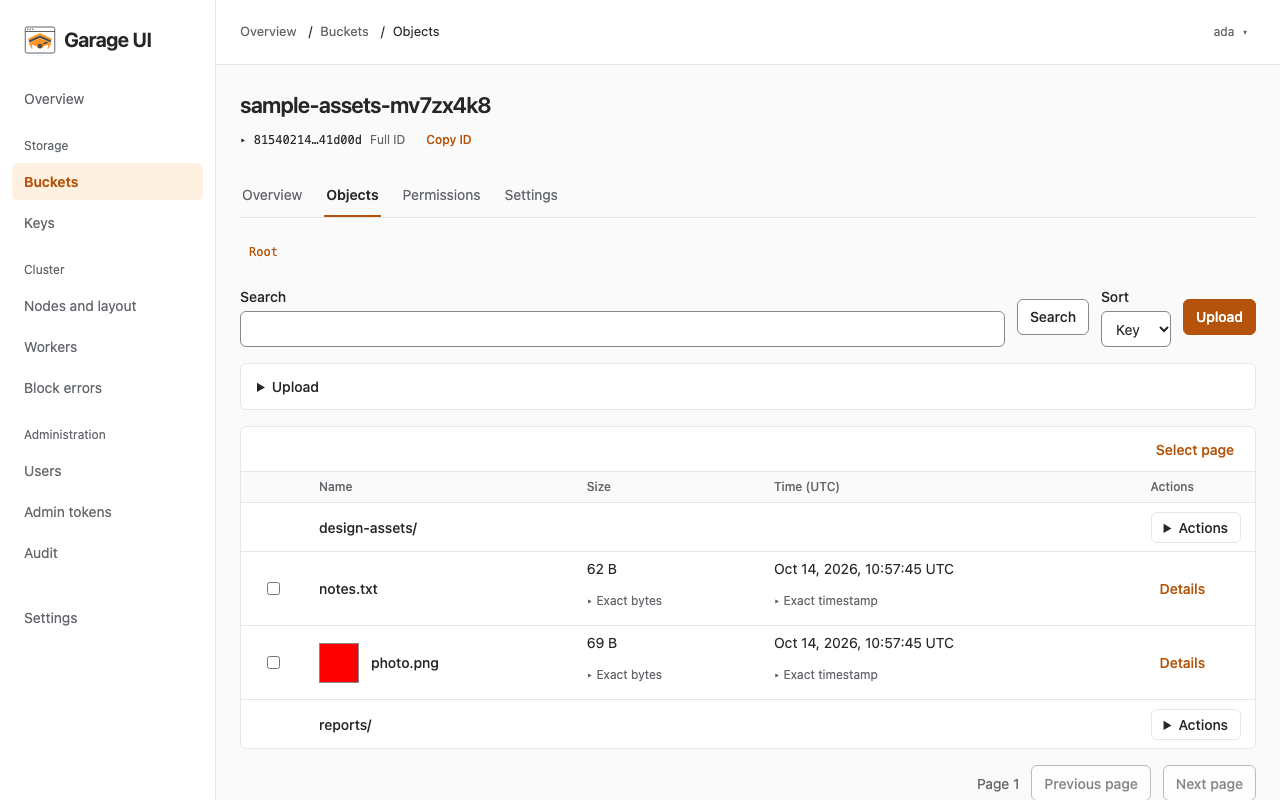
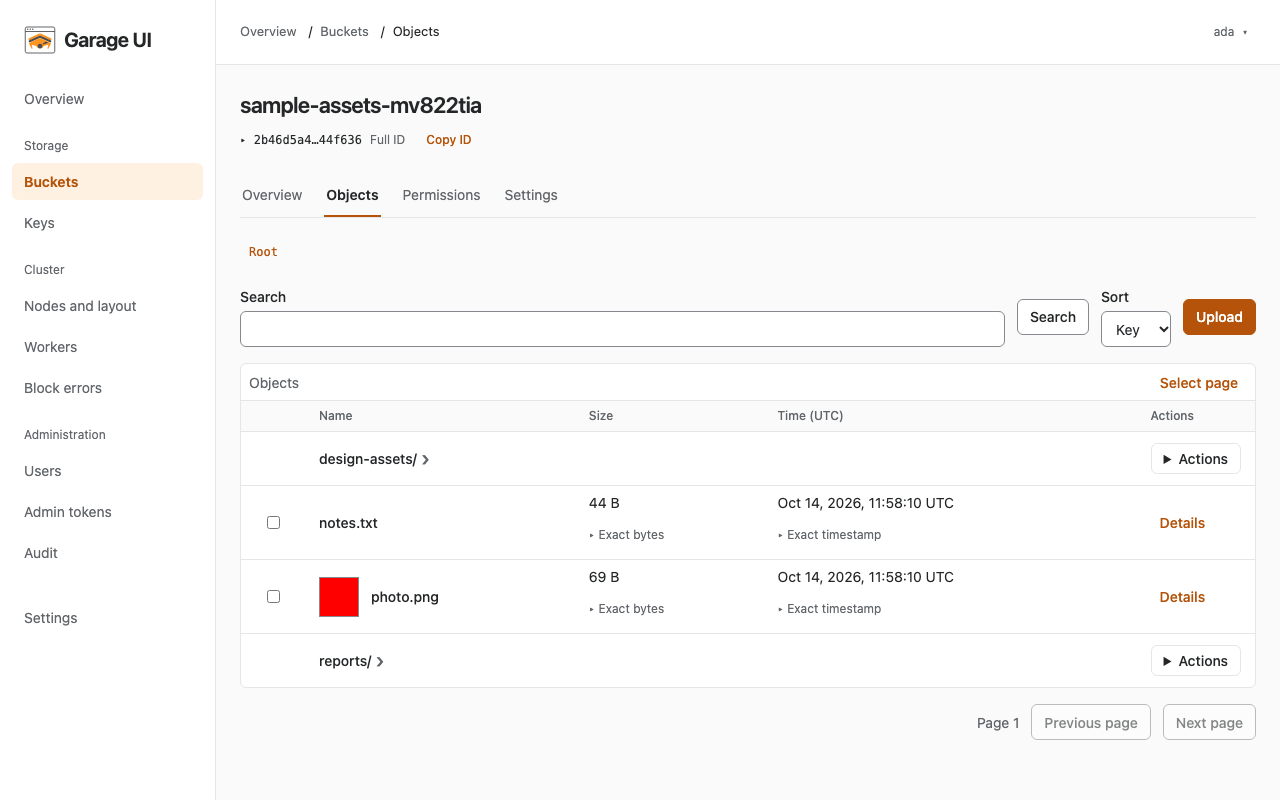
Refresh mobile screenshots and document compact workflows

diff --git a/docs/wiki/Objects.md b/docs/wiki/Objects.md
@@ -10,11 +10,11 @@ Enter a search term of at least two characters in **Search** and submit the sear
 
 **Size** and **Time** sorting apply only to the loaded page, as the **Only this page** notice states. Prefix rows stay ahead of objects. The list does not globally sort every object in the bucket.
 
-Select individual checkboxes or **Select page**. Selection actions use the objects selected on the displayed page. **Copy path** copies selected keys; if clipboard access is unavailable, the UI displays selectable paths for manual copying.
+Select individual checkboxes or **Select page**. Selection actions use the objects selected on the displayed page. **Clear selection** clears the checked objects. **Copy path** copies selected keys; if clipboard access is unavailable, the UI displays selectable paths for manual copying.
 
 ## Upload files or a folder
 
-Administrators can upload. In the upload panel:
+Administrators can upload. Choose **Upload** to open the panel. **Close upload** hides it while retaining the current queue; choose **Upload** again to reopen it. In the upload panel:
 
 1. Use **Choose files**, **Choose folder**, or drop files into the panel.
 2. Watch each row move from **Queued** through **Checking destination** and **Uploading** to **Done**.
@@ -31,7 +31,7 @@ Keep the page open until uploads finish. Leaving after the unfinished-upload war
 
 ## Inspect an object
 
-Select an object to see its key, size, content type, ETag, and last-modified time. **Inspect** is an administrator-only diagnostic action showing Garage object versions and related details. It does not restore a previous version.
+Choose an object filename to preview its key, size, content type, ETag, and last-modified time. For administrators, **Details** opens exact size, last-modified time, and Garage object versions. It does not restore a previous version.
 
 For content previews and transfers, see [Downloads and sharing](Downloads-and-sharing.md).
 

diff --git a/docs/images/README.md b/docs/images/README.md
@@ -1,10 +1,10 @@
 # README screenshots
 
-These are actual Garage UI browser captures from October 14, 2026, connected to a disposable Garage v2.4.1 instance. The sample bucket, folders, and files are synthetic fixtures.
+These are actual Garage UI browser captures from October 14, 2026, connected to a local test Garage v2.4.1 instance. The captured build is commit `137ddc2`. The sample bucket and four stored files are synthetic fixtures: `notes.txt`, `photo.png`, `reports/weekly.csv`, and `design-assets/palette.txt`.
 
-| Image | Capture width | View |
+| Image | Viewport | View |
 |---|---|---|
-| `objects-desktop.png` | 1280 px | Object browser on desktop |
-| `objects-mobile.png` | 360 px | Object browser on a narrow screen |
+| `objects-desktop.png` | 1280 × 800 px | Object browser on desktop |
+| `objects-mobile.png` | 360 × 800 px | Object browser with four complete records on the first screen |
 
-The original PNG files were copied without content edits or recompression. The mobile image is displayed at 240 px wide in the project README. Captures contain no credentials or private cluster addresses.
+The same fixture was also checked at 390 × 800 px. Captures use the English locale and Light theme. The original PNG files were copied without content edits or recompression; the sample objects, bucket, and key were deleted after capture. The mobile image is displayed at 240 px wide in the project README. Captures contain no credentials, loading or error notices, or private cluster addresses.

diff --git a/docs/wiki/Buckets.md b/docs/wiki/Buckets.md
@@ -20,7 +20,7 @@ Use the corresponding **Remove global alias** or **Remove local alias** action t
 
 ## Set quotas
 
-In **Settings → Quotas**, enter **Max size** as a whole number of bytes and **Max objects** as a whole object count. Leave a field empty to unset that quota. Choose **Save quotas** and wait for **Saved**. The usage view shows limits and current usage when Garage supplies them.
+In **Settings → Quotas**, enter **Max size** as a whole number of bytes and **Max objects** as a whole object count. Leave a field empty to unset that quota. Choose **Save quotas** and wait for **Saved**. The usage view shows limits and current usage when Garage supplies them. On phones, expand **Usage** to reach exact byte values and the complete quota information.
 
 For example, a size quota of `1073741824` is 1 GiB. A quota constrains storage; it does not grant anyone permission to use it. If saving fails, retain the error message and check that values are whole numbers and that Garage accepts the requested update.
 
